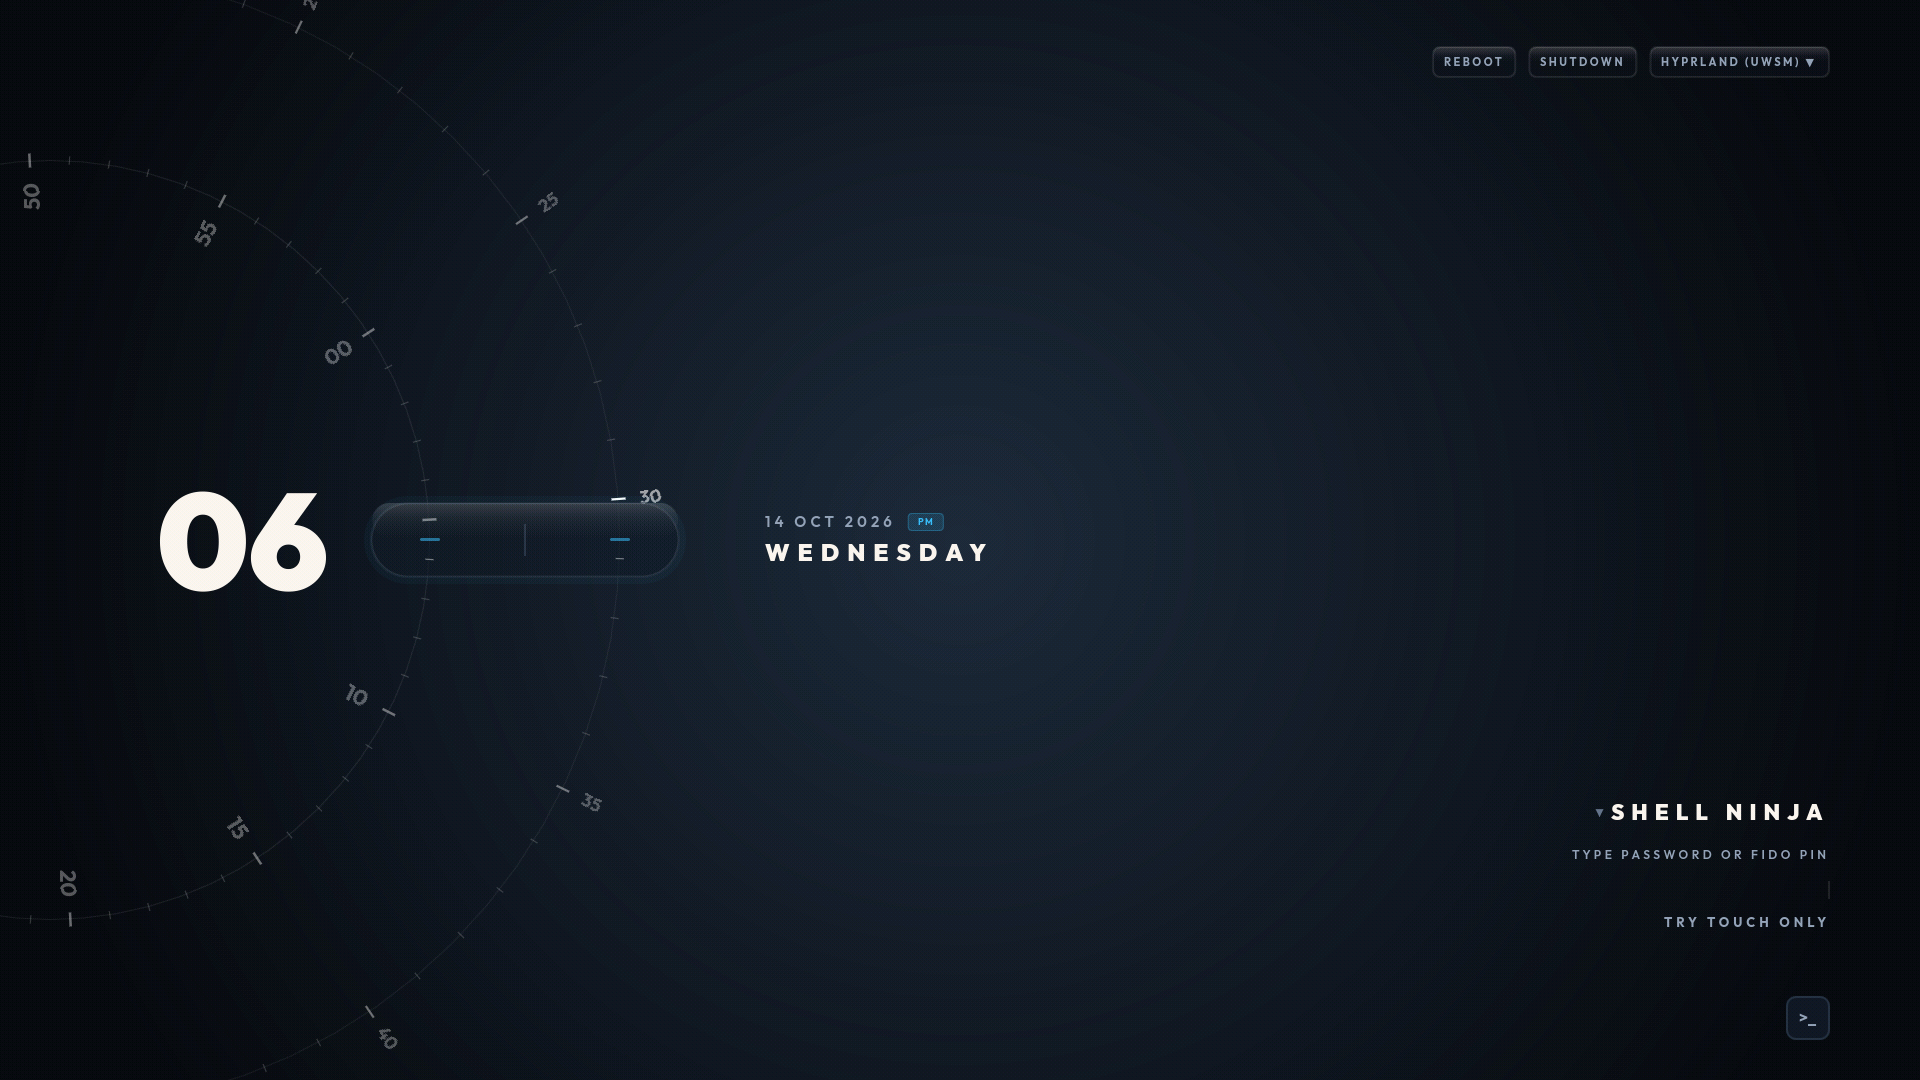
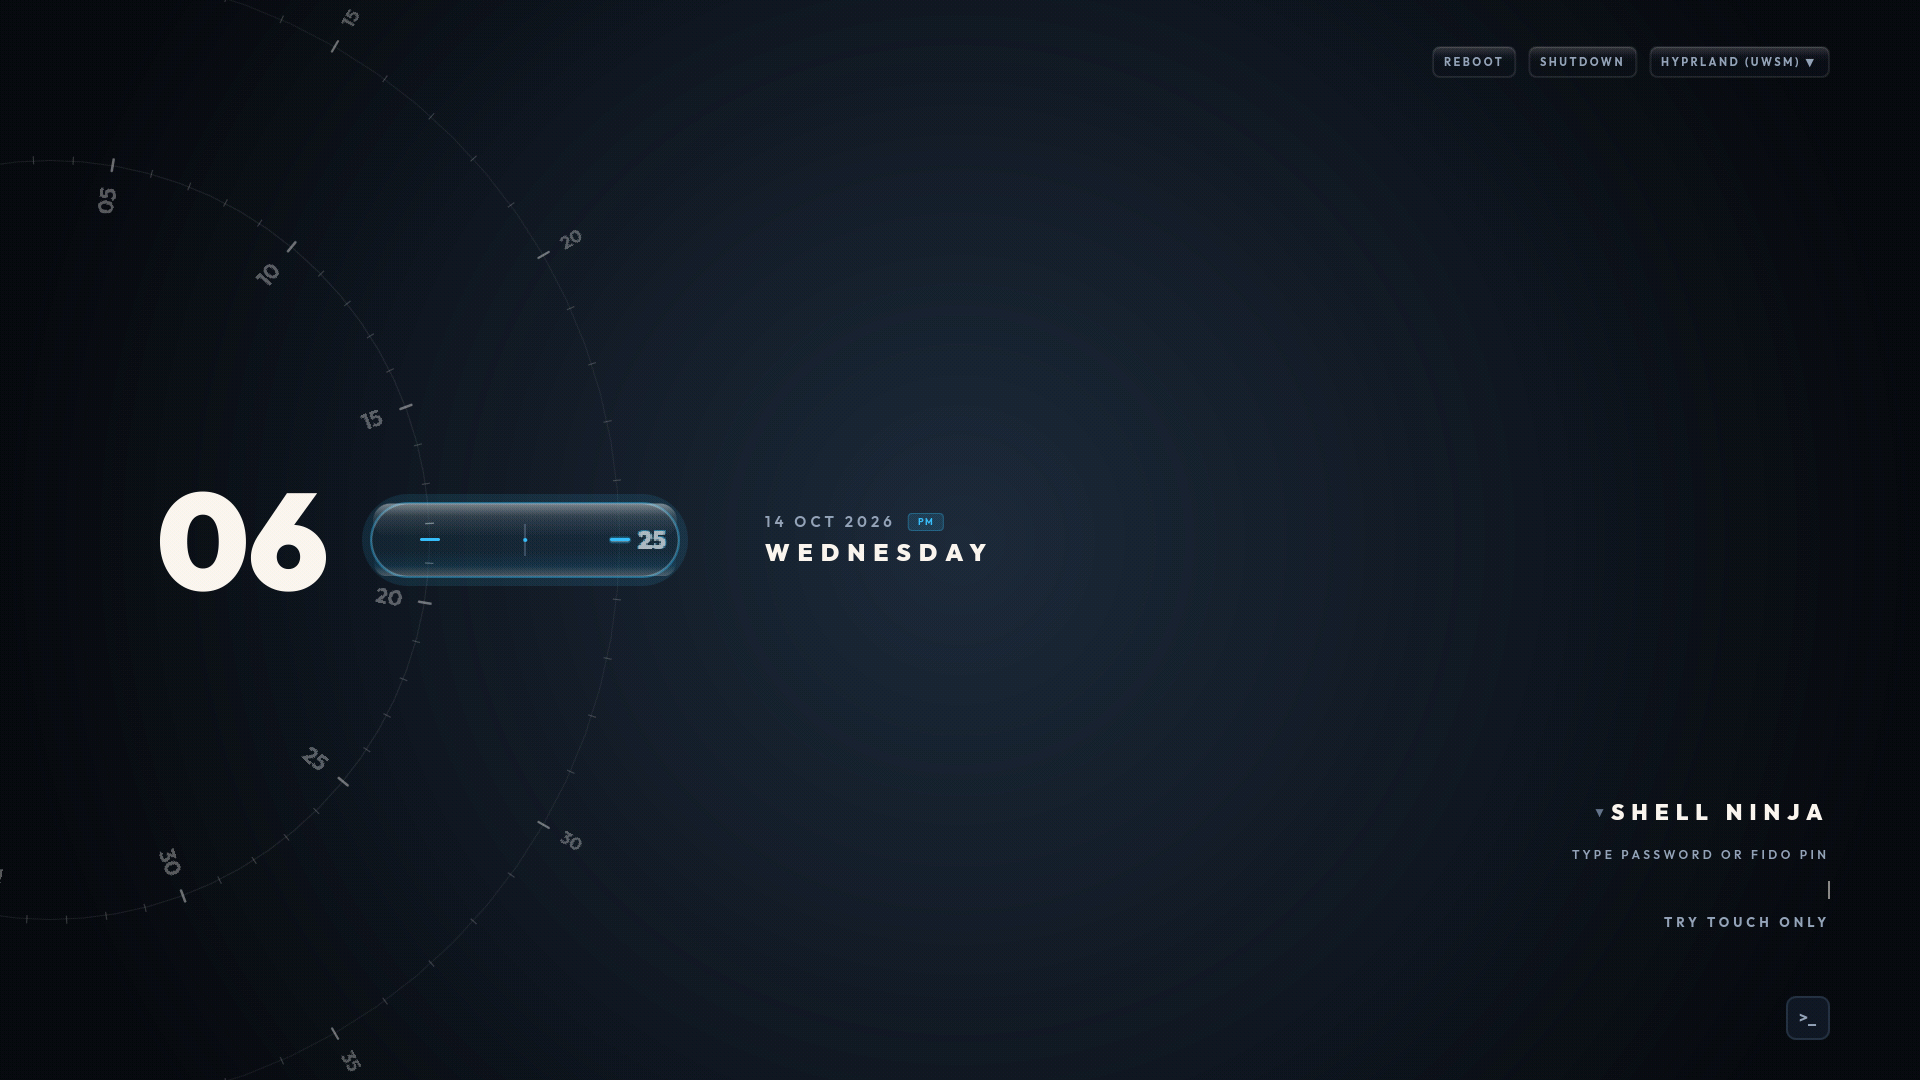
feat(classic): implement optical liquid glass lens with convex magnification & caustics for dial numbers

diff --git a/Main.qml b/Main.qml
@@ -582,7 +582,7 @@ Rectangle {
                 border.width: 1 * s
             }
 
-            // Horizontal Capsule Indicator Pill (iOS Liquid Glass Capsule)
+            // Horizontal Capsule Indicator Pill (iOS Liquid Glass / Watery Capsule)
             Rectangle {
                 id: indicatorPill
                 z: 10
@@ -591,18 +591,17 @@ Rectangle {
                 width: (clockContainer.secR - clockContainer.minR) + (120 * s)
                 height: 76 * s
                 radius: 38 * s
-                color: root.pillColor
-                opacity: 0.55
-                border.color: root.pillBorder
+                color: Qt.rgba(root.pillColor.r, root.pillColor.g, root.pillColor.b, 0.28)
+                border.color: Qt.rgba(56/255, 189/255, 248/255, 0.40)
                 border.width: 1.5 * s
 
-                // 1. Ambient Volumetric Liquid Aura behind the glass
+                // 1. Ambient Volumetric Liquid Aura (Diffused aquatic glow)
                 Rectangle {
                     anchors.centerIn: parent
-                    width: parent.width + 12 * s
-                    height: parent.height + 12 * s
+                    width: parent.width + 16 * s
+                    height: parent.height + 16 * s
                     radius: height * 0.5
-                    color: Qt.rgba(root.accentColor.r, root.accentColor.g, root.accentColor.b, 0.08)
+                    color: Qt.rgba(root.accentColor.r, root.accentColor.g, root.accentColor.b, 0.12)
                     z: -1
                 }
 
@@ -616,13 +615,21 @@ Rectangle {
                     color: root.accentColor
                 }
 
-                // 3. Center Vertical Separator Line
+                // 3. Center Vertical Separator Line (Liquid Capillary Column)
                 Rectangle {
                     x: parent.width * 0.5 - width * 0.5
                     anchors.verticalCenter: parent.verticalCenter
                     width: 1.5 * s
                     height: 32 * s
                     color: root.pillInnerLine
+
+                    Rectangle {
+                        anchors.centerIn: parent
+                        width: 4 * s
+                        height: 4 * s
+                        radius: 2 * s
+                        color: root.accentColor
+                    }
                 }
 
                 // 4. Right Dash Indicator (aligned with seconds track)
@@ -635,32 +642,51 @@ Rectangle {
                     color: root.accentColor
                 }
 
-                // 5. iOS Liquid Glass Specular Sheen (Curved Gloss Crescent)
+                // 5. iOS Liquid Glass Top Specular Meniscus (Convex surface tension reflection)
                 Rectangle {
                     anchors.top: parent.top
-                    anchors.topMargin: 1 * s
+                    anchors.topMargin: 1.5 * s
                     anchors.left: parent.left
-                    anchors.leftMargin: 2 * s
+                    anchors.leftMargin: 3 * s
                     anchors.right: parent.right
-                    anchors.rightMargin: 2 * s
-                    height: parent.height * 0.46
-                    radius: parent.radius - 1 * s
+                    anchors.rightMargin: 3 * s
+                    height: parent.height * 0.45
+                    radius: parent.radius - 1.5 * s
                     clip: true
                     gradient: Gradient {
                         orientation: Gradient.Vertical
-                        GradientStop { position: 0.0; color: Qt.rgba(255, 255, 255, 0.28) }
-                        GradientStop { position: 0.40; color: Qt.rgba(255, 255, 255, 0.10) }
+                        GradientStop { position: 0.0; color: Qt.rgba(255, 255, 255, 0.42) }
+                        GradientStop { position: 0.35; color: Qt.rgba(255, 255, 255, 0.12) }
                         GradientStop { position: 1.0; color: "transparent" }
                     }
                 }
 
-                // 6. Inner Refraction Bevel Rim
+                // 6. Bottom Liquid Meniscus Caustic (Internal total reflection)
+                Rectangle {
+                    anchors.bottom: parent.bottom
+                    anchors.bottomMargin: 1.5 * s
+                    anchors.left: parent.left
+                    anchors.leftMargin: 4 * s
+                    anchors.right: parent.right
+                    anchors.rightMargin: 4 * s
+                    height: parent.height * 0.35
+                    radius: parent.radius - 1.5 * s
+                    clip: true
+                    gradient: Gradient {
+                        orientation: Gradient.Vertical
+                        GradientStop { position: 0.0; color: "transparent" }
+                        GradientStop { position: 0.60; color: Qt.rgba(56/255, 189/255, 248/255, 0.08) }
+                        GradientStop { position: 1.0; color: Qt.rgba(255, 255, 255, 0.22) }
+                    }
+                }
+
+                // 7. Inner Refraction Bevel Rim
                 Rectangle {
                     anchors.fill: parent
                     anchors.margins: 1.5 * s
                     radius: parent.radius - 1.5 * s
                     color: "transparent"
-                    border.color: Qt.rgba(255, 255, 255, 0.12)
+                    border.color: Qt.rgba(255, 255, 255, 0.16)
                     border.width: 1 * s
                 }
             }
@@ -669,6 +695,7 @@ Rectangle {
             Repeater {
                 model: 60
                 delegate: Item {
+                    id: minDialItem
                     z: 5
                     property real base: index * 6
                     property real relAngle: {
@@ -677,6 +704,8 @@ Rectangle {
                         if (a < -180) a += 360
                         return a
                     }
+                    property real liquidFactor: Math.max(0.0, 1.0 - Math.abs(relAngle) / 4.2)
+                    property real liquidCurvature: liquidFactor > 0 ? (0.5 * (1.0 - Math.cos(liquidFactor * Math.PI))) : 0.0
                     property real spotlight: Math.max(0, 1.0 - Math.abs(relAngle) / 5.5)
                     property bool isMajor: index % 5 === 0
                     property real disp: (base + root.smoothMinAngle) * Math.PI / 180
@@ -685,37 +714,86 @@ Rectangle {
 
                     visible: tx > -700 * s && tx < 2200 * s
 
-                    // Tick Mark
+                    // Tick Mark (Reacts to liquid lens)
                     Rectangle {
                         x: parent.tx - width / 2
                         y: parent.ty - height / 2
-                        width: isMajor ? 2.5 * s : 1.2 * s
-                        height: isMajor ? 14 * s : 8 * s
-                        color: root.isLight
-                               ? Qt.rgba(0, 0, 0, spotlight > 0 ? 1.0 : (isMajor ? 0.75 : 0.40))
-                               : Qt.rgba(1, 1, 1, spotlight > 0 ? 1.0 : (isMajor ? 0.40 : 0.18))
+                        width: (isMajor ? 2.5 * s : 1.2 * s) * (1.0 + 0.35 * minDialItem.liquidCurvature)
+                        height: (isMajor ? 14 * s : 8 * s) * (1.0 + 0.30 * minDialItem.liquidCurvature)
+                        radius: width * 0.5
+                        color: {
+                            if (minDialItem.liquidCurvature > 0) {
+                                return Qt.rgba(1.0, 1.0, 1.0, 0.40 + 0.60 * minDialItem.liquidCurvature)
+                            } else {
+                                return root.isLight
+                                       ? Qt.rgba(0, 0, 0, spotlight > 0 ? 1.0 : (isMajor ? 0.75 : 0.40))
+                                       : Qt.rgba(1, 1, 1, spotlight > 0 ? 1.0 : (isMajor ? 0.40 : 0.18))
+                            }
+                        }
                         rotation: disp * 180 / Math.PI + 90
                         antialiasing: true
                         transformOrigin: Item.Center
+
+                        // Cyan Liquid Dispersion Caustic under water
+                        Rectangle {
+                            anchors.centerIn: parent
+                            width: parent.width + 4 * s
+                            height: parent.height + 4 * s
+                            radius: width * 0.5
+                            color: Qt.rgba(root.accentColor.r, root.accentColor.g, root.accentColor.b, 0.45 * minDialItem.liquidCurvature)
+                            visible: isMajor && minDialItem.liquidCurvature > 0.08
+                            z: -1
+                        }
                     }
 
-                    // Major Minute Numbers (40, 45, 50, 55, 00, 05...)
-                    Text {
-                        visible: isMajor && Math.abs(relAngle) > 3.2
+                    // Major Minute Numbers (Pass under liquid glass with liquid refraction)
+                    Item {
+                        visible: isMajor
                         property real nRad: clockContainer.minR - 36 * s
                         x: clockContainer.cx + nRad * Math.cos(disp) - width / 2
                         y: clockContainer.cy + nRad * Math.sin(disp) - height / 2
-                        text: String(index).padStart(2, '0')
-                        font.family: root.boldFont
-                        font.pixelSize: 22 * s
-                        font.weight: spotlight > 0.4 ? Font.Black : Font.Bold
-                        color: root.isLight
-                               ? Qt.rgba(0, 0, 0, spotlight > 0 ? (0.6 + 0.4 * spotlight) : 0.5)
-                               : Qt.rgba(1, 1, 1, spotlight > 0 ? (0.45 + spotlight * 0.55) : 0.32)
+                        width: minNumTxt.width
+                        height: minNumTxt.height
                         rotation: disp * 180 / Math.PI
                         transformOrigin: Item.Center
-                        antialiasing: true
-                        renderType: Text.NativeRendering
+                        scale: 1.0 + (0.35 * minDialItem.liquidCurvature)
+
+                        // 1. Chromatic Dispersion & Caustic Glow Halo (Liquid Refraction Under Water)
+                        Text {
+                            anchors.centerIn: parent
+                            x: (minDialItem.relAngle > 0 ? 1.5 * s : -1.5 * s) * minDialItem.liquidCurvature
+                            y: 1.5 * s * minDialItem.liquidCurvature
+                            text: String(index).padStart(2, '0')
+                            font.family: root.boldFont
+                            font.pixelSize: 22 * s
+                            font.weight: Font.Black
+                            color: Qt.rgba(root.accentColor.r, root.accentColor.g, root.accentColor.b, 0.75 * minDialItem.liquidCurvature)
+                            scale: 1.08
+                            visible: minDialItem.liquidCurvature > 0.06
+                            renderType: Text.NativeRendering
+                            antialiasing: true
+                        }
+
+                        // 2. Primary High-Definition Refracted Minute Number
+                        Text {
+                            id: minNumTxt
+                            anchors.centerIn: parent
+                            text: String(index).padStart(2, '0')
+                            font.family: root.boldFont
+                            font.pixelSize: 22 * s
+                            font.weight: minDialItem.liquidCurvature > 0.25 ? Font.Black : Font.Bold
+                            color: {
+                                if (minDialItem.liquidCurvature > 0) {
+                                    return Qt.rgba(1.0, 1.0, 1.0, 0.45 + 0.55 * minDialItem.liquidCurvature)
+                                } else {
+                                    return root.isLight
+                                           ? Qt.rgba(0, 0, 0, 0.50)
+                                           : Qt.rgba(1, 1, 1, 0.32)
+                                }
+                            }
+                            renderType: Text.NativeRendering
+                            antialiasing: true
+                        }
                     }
                 }
             }
@@ -724,6 +802,7 @@ Rectangle {
             Repeater {
                 model: 60
                 delegate: Item {
+                    id: secDialItem
                     z: 5
                     property real base: index * 6
                     property real relAngle: {
@@ -732,6 +811,8 @@ Rectangle {
                         if (a < -180) a += 360
                         return a
                     }
+                    property real liquidFactor: Math.max(0.0, 1.0 - Math.abs(relAngle) / 4.2)
+                    property real liquidCurvature: liquidFactor > 0 ? (0.5 * (1.0 - Math.cos(liquidFactor * Math.PI))) : 0.0
                     property real spotlight: Math.max(0, 1.0 - Math.abs(relAngle) / 5.5)
                     property bool isMajor: index % 5 === 0
                     property real disp: (base + root.smoothSecAngle) * Math.PI / 180
@@ -740,37 +821,86 @@ Rectangle {
 
                     visible: tx > -700 * s && tx < 2200 * s
 
-                    // Tick Mark
+                    // Tick Mark (Reacts to liquid lens)
                     Rectangle {
                         x: parent.tx - width / 2
                         y: parent.ty - height / 2
-                        width: isMajor ? 2.2 * s : 1.2 * s
-                        height: isMajor ? 14 * s : 8 * s
-                        color: root.isLight
-                               ? Qt.rgba(0, 0, 0, spotlight > 0 ? 1.0 : (isMajor ? 0.75 : 0.40))
-                               : Qt.rgba(1, 1, 1, spotlight > 0 ? 1.0 : (isMajor ? 0.40 : 0.18))
+                        width: (isMajor ? 2.2 * s : 1.2 * s) * (1.0 + 0.35 * secDialItem.liquidCurvature)
+                        height: (isMajor ? 14 * s : 8 * s) * (1.0 + 0.30 * secDialItem.liquidCurvature)
+                        radius: width * 0.5
+                        color: {
+                            if (secDialItem.liquidCurvature > 0) {
+                                return Qt.rgba(1.0, 1.0, 1.0, 0.40 + 0.60 * secDialItem.liquidCurvature)
+                            } else {
+                                return root.isLight
+                                       ? Qt.rgba(0, 0, 0, spotlight > 0 ? 1.0 : (isMajor ? 0.75 : 0.40))
+                                       : Qt.rgba(1, 1, 1, spotlight > 0 ? 1.0 : (isMajor ? 0.40 : 0.18))
+                            }
+                        }
                         rotation: disp * 180 / Math.PI + 90
                         antialiasing: true
                         transformOrigin: Item.Center
+
+                        // Cyan Liquid Dispersion Caustic under water
+                        Rectangle {
+                            anchors.centerIn: parent
+                            width: parent.width + 4 * s
+                            height: parent.height + 4 * s
+                            radius: width * 0.5
+                            color: Qt.rgba(root.accentColor.r, root.accentColor.g, root.accentColor.b, 0.45 * secDialItem.liquidCurvature)
+                            visible: isMajor && secDialItem.liquidCurvature > 0.08
+                            z: -1
+                        }
                     }
 
-                    // Major Second Numbers (Placed on the outside of the track)
-                    Text {
-                        visible: isMajor && Math.abs(relAngle) > 3.2
+                    // Major Second Numbers (Pass under liquid glass with liquid refraction)
+                    Item {
+                        visible: isMajor
                         property real nRad: clockContainer.secR + 32 * s
                         x: clockContainer.cx + nRad * Math.cos(disp) - width / 2
                         y: clockContainer.cy + nRad * Math.sin(disp) - height / 2
-                        text: String(index).padStart(2, '0')
-                        font.family: root.boldFont
-                        font.pixelSize: 18 * s
-                        font.weight: spotlight > 0.4 ? Font.Black : Font.Bold
-                        color: root.isLight
-                               ? Qt.rgba(0, 0, 0, spotlight > 0 ? (0.6 + 0.4 * spotlight) : 0.5)
-                               : Qt.rgba(1, 1, 1, spotlight > 0 ? (0.45 + spotlight * 0.55) : 0.30)
+                        width: secNumTxt.width
+                        height: secNumTxt.height
                         rotation: disp * 180 / Math.PI
                         transformOrigin: Item.Center
-                        antialiasing: true
-                        renderType: Text.NativeRendering
+                        scale: 1.0 + (0.35 * secDialItem.liquidCurvature)
+
+                        // 1. Chromatic Dispersion & Caustic Glow Halo (Liquid Refraction Under Water)
+                        Text {
+                            anchors.centerIn: parent
+                            x: (secDialItem.relAngle > 0 ? 1.5 * s : -1.5 * s) * secDialItem.liquidCurvature
+                            y: 1.5 * s * secDialItem.liquidCurvature
+                            text: String(index).padStart(2, '0')
+                            font.family: root.boldFont
+                            font.pixelSize: 18 * s
+                            font.weight: Font.Black
+                            color: Qt.rgba(root.accentColor.r, root.accentColor.g, root.accentColor.b, 0.75 * secDialItem.liquidCurvature)
+                            scale: 1.08
+                            visible: secDialItem.liquidCurvature > 0.06
+                            renderType: Text.NativeRendering
+                            antialiasing: true
+                        }
+
+                        // 2. Primary High-Definition Refracted Second Number
+                        Text {
+                            id: secNumTxt
+                            anchors.centerIn: parent
+                            text: String(index).padStart(2, '0')
+                            font.family: root.boldFont
+                            font.pixelSize: 18 * s
+                            font.weight: secDialItem.liquidCurvature > 0.25 ? Font.Black : Font.Bold
+                            color: {
+                                if (secDialItem.liquidCurvature > 0) {
+                                    return Qt.rgba(1.0, 1.0, 1.0, 0.45 + 0.55 * secDialItem.liquidCurvature)
+                                } else {
+                                    return root.isLight
+                                           ? Qt.rgba(0, 0, 0, 0.50)
+                                           : Qt.rgba(1, 1, 1, 0.30)
+                                }
+                            }
+                            renderType: Text.NativeRendering
+                            antialiasing: true
+                        }
                     }
                 }
             }

diff --git a/AGENTS.md b/AGENTS.md
@@ -8,7 +8,7 @@ Do **NOT** re-add legacy themes 4 to 9 or cyberpunk. The project is focused excl
 
 1. **Prohori Classic** (`themes/default.conf`):
    - Layout: Concentric orbital chronometer dials with windup rotation on submit.
-   - Indicator: Translucent Liquid Glass chronometer capsule (`indicatorPill`) with ambient volumetric cyan aura, curved glossy specular sheen, internal refraction bevels, and original tick indicators. Rotating dial numbers and tick marks remain visible as they sweep smoothly under the liquid glass.
+   - Indicator: Translucent Liquid Glass watery chronometer capsule (`indicatorPill`) with ambient volumetric cyan aura, curved top & bottom specular meniscuses, and internal refraction bevels. Rotating dial numbers and tick marks undergo authentic optical liquid refraction (convex lens magnification, luminous caustics boost, and cyan chromatic dispersion) as they sweep smoothly under the watery liquid glass.
    - Top HUD: Classic 3-button action row (`hudRowClassic`: `[ REBOOT ] [ SHUTDOWN ] [ SESSION ▾ ]`) with iOS liquid glass specular sheen, inner refraction bevels, and ambient glow.
    - Background: Dark atmospheric radial vignette (`backgrounds/default.jpg`).
    - Accent: `#38bdf8` (Cyan Blue).
